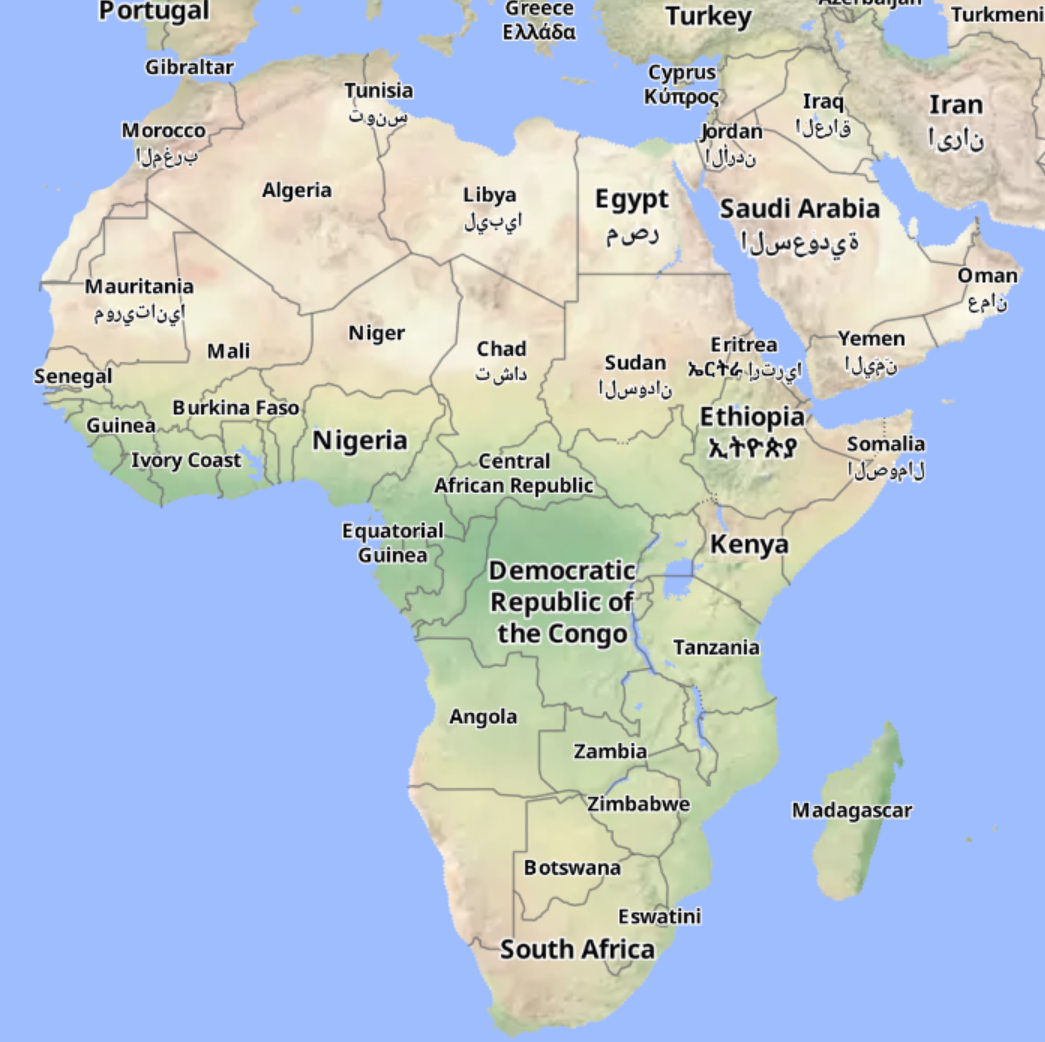
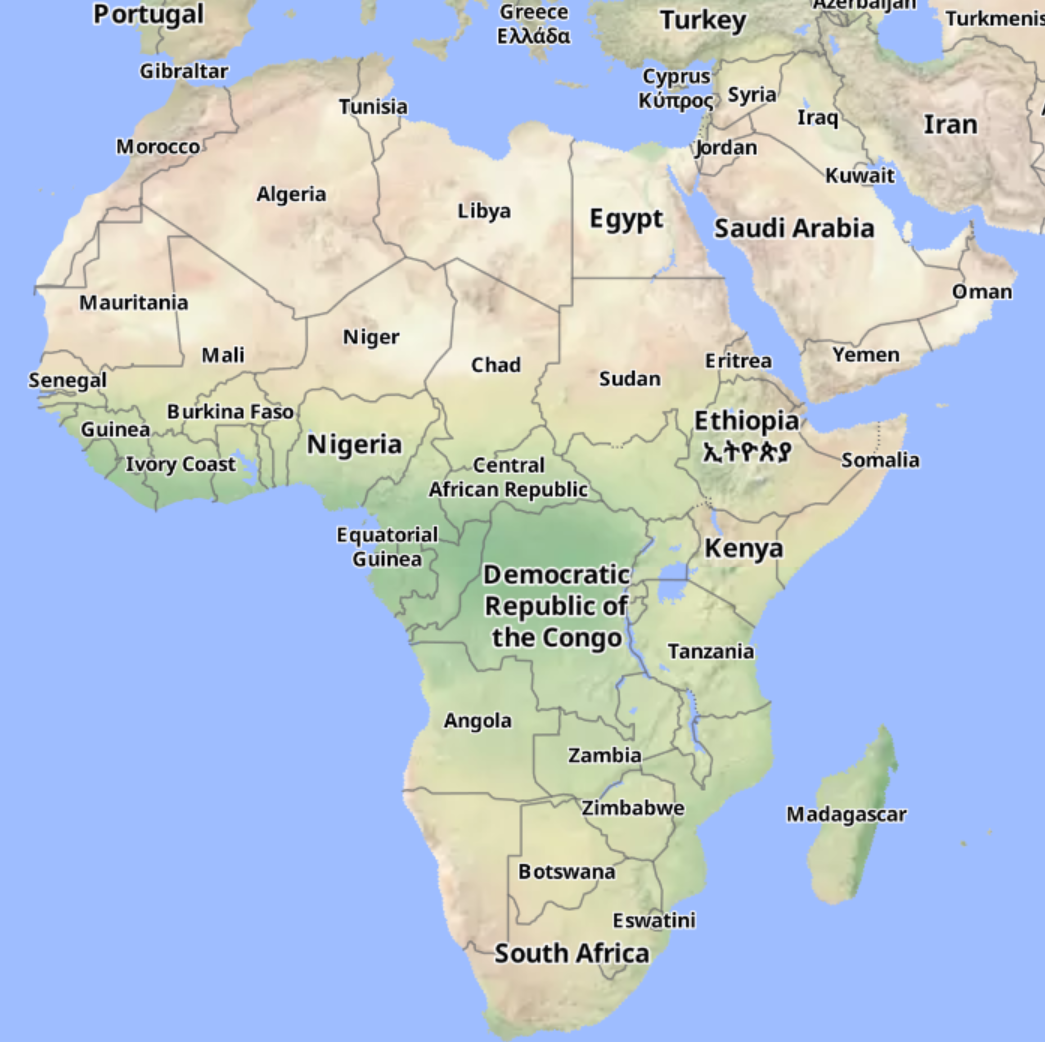
Fix implementation of OperatorIsScriptSupported. Currently any scripts that aren't simple LtoR get skipped. Add new function unicode::blocks::IsSimple() that checks if a codepoint/utf32 string can be rendered as simple LtoR. Fix a couple of bugs in GetFormattedText(). The last character before a new

diff --git a/formats/mvt/Symbol.cpp b/formats/mvt/Symbol.cpp
@@ -21,6 +21,7 @@ import formats.mvt.renderer;
 import formats.mvt.rendercontext;
 import formats.mvt.style;
 import formats.mvt.feature;
+import unicode.blocks;
 import unicode.convert;
 
 namespace mvt::symbol
@@ -363,6 +364,29 @@ namespace mvt::symbol
 				lastBreak = i;
 			}
 
+			if (cp == '\n')
+			{
+				assert(start <= end);
+
+				if (start > end) end = start;
+
+				std::vector<uint32_t> text(utf32.begin() + start, utf32.begin() + end + 1);
+				if (unicode::blocks::IsSimple(text))
+				{
+					line = { text, GetWordLength(glyphs, font, attribs.textLetterSpacing, text) };
+					ft.lines.push_back(line);
+				}
+
+				line = {};
+				width = 0.0f;
+				start = i + 1;
+				end = start;
+
+				lastBreak = std::string::npos;
+
+				continue;
+			}
+
 			int blockStart = GetGlyphBlockStart(cp);
 
 			auto glyphAtlas = glyphs.Lookup(font, blockStart);
@@ -372,25 +396,6 @@ namespace mvt::symbol
 			if (!glyphAtlas->glyphs.contains(cp)) continue;
 
 			float advance = static_cast<float>(glyphAtlas->glyphs.at(cp).advance);
-
-			if (cp == '\n')
-			{
-				assert(start <= end);
-
-				if (start > end) end = start;
-
-				std::vector<uint32_t> text(utf32.begin() + start, utf32.begin() + end);
-				line = { text, GetWordLength(glyphs, font, attribs.textLetterSpacing, text) };
-				ft.lines.push_back(line);
-
-				line = {};
-				width = 0.0f;
-				start = i  + 1;
-
-				lastBreak = std::string::npos;
-
-				continue;
-			}
 
 			// Have we overflowed text-max-width and have found a break point on this line?
 			if (width + advance > maxTextWidthPx && lastBreak != std::string::npos)
@@ -402,8 +407,11 @@ namespace mvt::symbol
 				if (breakChar == '/' || breakChar == '-') bp++;	// We want to keep the break character.
 
 				std::vector<uint32_t> text(utf32.begin() + start, utf32.begin() + bp);
-				line = { text, GetWordLength(glyphs, font, attribs.textLetterSpacing, text) };
-				ft.lines.push_back(line);
+				if (unicode::blocks::IsSimple(text))
+				{
+					line = { text, GetWordLength(glyphs, font, attribs.textLetterSpacing, text) };
+					ft.lines.push_back(line);
+				}
 
 				line = {};
 				width = 0.0f;
@@ -427,9 +435,11 @@ namespace mvt::symbol
 		}
 
 		std::vector<uint32_t> text(utf32.begin() + start, utf32.end());
-		line = { text, GetWordLength(glyphs, font, attribs.textLetterSpacing, text) };
-
-		ft.lines.push_back(line);
+		if (unicode::blocks::IsSimple(text))
+		{
+			line = { text, GetWordLength(glyphs, font, attribs.textLetterSpacing, text) };
+			ft.lines.push_back(line);
+		}
 
 		// Calculate bounding box.
 		if (!ft.lines.empty())

diff --git a/unicode/Blocks.cpp b/unicode/Blocks.cpp
@@ -23,4 +23,43 @@ namespace unicode::blocks
 	//		{ GetBlock(Name::BasicLatin) }
 
 	//	});
+
+
+	// Lo-fi check to see if a codePoint is from a script that requires shaping, RtoL etc.
+	// Returns true for simple LtoR glyph.
+	bool IsSimple(uint32_t cp)
+	{
+		bool supported{ false };
+
+		if (!supported) supported = IsInAnyBlock<Name::BasicLatin, Name::Latin1Supplement, Name::LatinExtendedA, Name::LatinExtendedB, Name::LatinExtendedC, Name::LatinExtendedD, Name::LatinExtendedE>(cp);
+
+		if (!supported) supported = IsInAnyBlock<Name::GreekandCoptic, Name::GreekExtended>(cp);
+		if (!supported) supported = IsInAnyBlock<Name::Cyrillic, Name::CyrillicExtendedA, Name::CyrillicExtendedB, Name::CyrillicExtendedC, Name::CyrillicSupplement>(cp);
+		if (!supported) supported = IsInAnyBlock<Name::Armenian>(cp);
+		if (!supported) supported = IsInAnyBlock<Name::Georgian, Name::GeorgianExtended, Name::GeorgianSupplement>(cp);
+		if (!supported) supported = IsInAnyBlock<Name::Ethiopic, Name::EthiopicSupplement, Name::EthiopicExtended, Name::EthiopicExtendedA>(cp);
+		if (!supported) supported = IsInAnyBlock<Name::Cherokee, Name::CherokeeSupplement>(cp);
+		if (!supported) supported = IsInAnyBlock<Name::HangulSyllables>(cp);
+		if (!supported) supported = IsInAnyBlock<Name::CJKUnifiedIdeographs, Name::CJKUnifiedIdeographsExtensionA, Name::CJKUnifiedIdeographsExtensionB>(cp);
+		if (!supported) supported = IsInAnyBlock<Name::Hiragana, Name::Katakana, Name::KatakanaPhoneticExtensions>(cp);
+		if (!supported) supported = IsInAnyBlock<Name::LatinExtendedAdditional>(cp);
+		if (!supported) supported = IsInAnyBlock<Name::IPAExtensions>(cp);
+
+		if (!supported) supported = IsInAnyBlock<Name::CurrencySymbols, Name::GeneralPunctuation, Name::LetterlikeSymbols, Name::NumberForms>(cp);
+		if (!supported) supported = IsInAnyBlock<Name::Arrows, Name::MathematicalOperators, Name::MiscellaneousSymbols, Name::MiscellaneousSymbolsandArrows, Name::Dingbats>(cp);
+
+		return supported;
+	}
+
+	// Check if there are any non-'simple' codepoints in the passed UTF-32 array.
+	bool IsSimple(std::span<uint32_t> utf32)
+	{
+		for (auto cp : utf32)
+		{
+			if (!IsSimple(cp)) return false;
+		}
+
+		return true;
+	}
+
 };

diff --git a/formats/mvt/Operators-String.cpp b/formats/mvt/Operators-String.cpp
@@ -95,7 +95,10 @@ bool OperatorIsSupportedScript::ParseFromJson(const json& data)
 {
 	if (IsOperatorOfType(data, "is-supported-script"))
 	{
-		return data.size() == 2;
+		if (JsonArrayToValueArray(data, mValues, 1))
+		{
+			return data.size() == 2;
+		}
 	}
 
 	return false;
@@ -122,6 +125,7 @@ Value OperatorIsSupportedScript::Evaluate(const mvt::feature::Feature& feature, 
 			using namespace unicode;
 			using bc = unicode::bidiclass::BidiClass;
 			using cat = unicode::category::Category;
+			using name = unicode::blocks::Name;
 
 			const auto& str = value.GetString();
 			
@@ -129,7 +133,11 @@ Value OperatorIsSupportedScript::Evaluate(const mvt::feature::Feature& feature, 
 
 			for (const auto& cp : utf32)
 			{
-				//auto in = blocks::IsInBlock<blocks::Name::BasicLatin>(cp);
+				if (!blocks::IsSimple(cp)) return false;
+
+				/*
+				auto in = blocks::IsInBlock<name::Arabic>(cp) || blocks::IsInBlock<name::ArabicSupplement>(cp) || blocks::IsInBlock<name::ArabicExtendedA>(cp)
+							|| blocks::IsInBlock<name::ArabicPresentationFormsA>(cp) || blocks::IsInBlock<name::ArabicPresentationFormsB>(cp);
 
 				auto bidiClass = bidiclass::GetBidiClass(cp);
 				if (IsOneOf(bidiClass, bc::RightToLeft, bc::ArabicLetter, bc::RightToLeftEmbedding, bc::RightToLeftOverride, bc::RightToLeftIsolate))
@@ -144,12 +152,15 @@ Value OperatorIsSupportedScript::Evaluate(const mvt::feature::Feature& feature, 
 				}
 
 				auto script = unicode::script::GetScript(cp);
+				*/
 			}
+
+			return true;
 		}
 
 	}
 
-	return true;
+	return false;
 }
 
 
